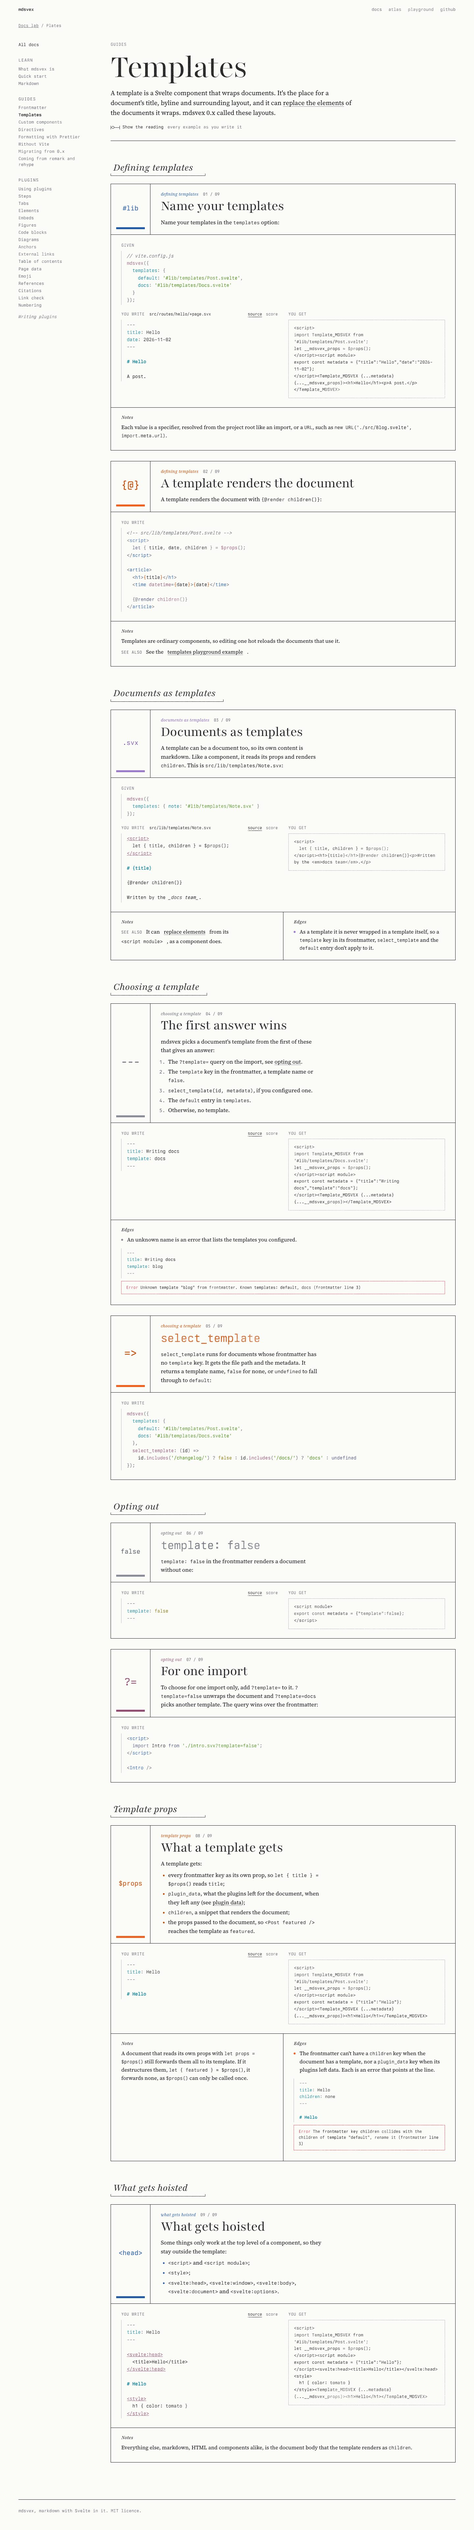
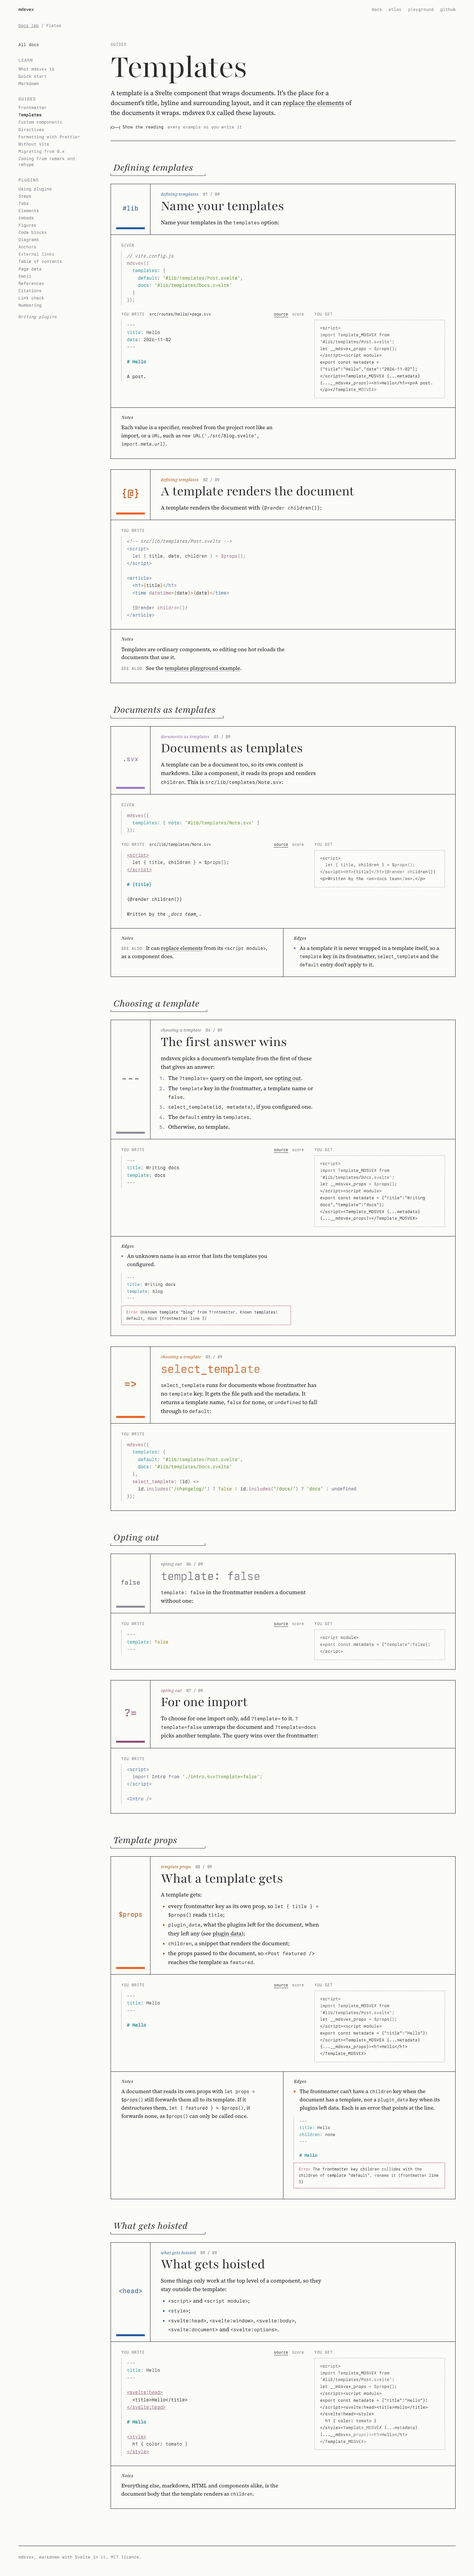
run docs lab plates full width

diff --git a/packages/site/src/lib/docs-lab/Shell.svelte b/packages/site/src/lib/docs-lab/Shell.svelte
@@ -15,10 +15,16 @@
 		nav?: 'side' | 'top';
 		/** which direction this is, said over the page */
 		direction: string;
+		/**
+		 * run the page's right edge out to the page's gutter on a screen wider
+		 * than the frame's measure, so its plates keep growing; the nav stays
+		 * where the frame puts it, under the site's own
+		 */
+		bleed?: boolean;
 		children: Snippet;
 	}
 
-	let { current, nav = 'side', direction, children }: Props = $props();
+	let { current, nav = 'side', direction, bleed = false, children }: Props = $props();
 
 	const here = $derived(
 		sections.flatMap((s) => s.groups.flatMap((g) => g.pages.map((p) => ({ ...p, section_title: s.title })))).find((p) => p.href === current),
@@ -41,7 +47,7 @@
 
 <p class="lab riso"><a href="/docs-lab">Docs lab</a> <span aria-hidden="true">/</span> {direction}</p>
 
-<div class="docs" class:with-side={nav === 'side'} class:with-top={nav === 'top'}>
+<div class="docs" class:with-side={nav === 'side'} class:with-top={nav === 'top'} class:bleed>
 	{#if nav === 'side'}
 		<nav class="side riso" aria-label="Docs">
 			<a class="index" href="/docs">All docs</a>
@@ -87,6 +93,13 @@
 
 	.docs.with-side {
 		grid-template-columns: var(--column) minmax(0, 1fr);
+	}
+
+	/* main is the frame's measure, centred; a percentage margin is of main's
+	   width, so this is how far main's right edge sits in from the page's
+	   gutter, nothing below the measure */
+	.docs.bleed {
+		margin-right: min(0px, calc(50% - 50vw + var(--gutter)));
 	}
 
 	nav {

diff --git a/packages/site/src/lib/docs-lab/plates/Plates.svelte b/packages/site/src/lib/docs-lab/plates/Plates.svelte
@@ -27,7 +27,7 @@
 	<title>{page.title} · plates · docs lab</title>
 </svelte:head>
 
-<Shell current={page.href} direction="Plates">
+<Shell current={page.href} direction="Plates" bleed>
 	<header class="page-head">
 		<p class="kicker riso">{page.kicker}</p>
 		<h1 class="rag">{page.title}</h1>
@@ -58,7 +58,7 @@
 				<div class="added">
 					{#each s.added as a (a.id)}
 						<div class="add" id={a.id} style:--own-line="var(--line-{a.tone})" style:--own-name="var(--name-{a.tone})">
-							<span class="add-mark" aria-hidden="true">{a.mark}</span>
+							<span class="add-mark" class:long={a.mark.length > 3} aria-hidden="true">{a.mark}</span>
 							<span class="add-write">{@html a.write}</span>
 							<span class="add-get">{@html a.get}</span>
 						</div>
@@ -171,7 +171,7 @@
 
 	.contrasts {
 		display: grid;
-		grid-template-columns: repeat(auto-fill, minmax(min(100%, 24rem), 1fr));
+		grid-template-columns: repeat(auto-fill, minmax(min(100%, 30rem), 1fr));
 		gap: 1rem;
 		margin-bottom: 1.5rem;
 	}
@@ -206,6 +206,10 @@
 		padding-bottom: 0.4rem;
 		justify-self: start;
 		white-space: nowrap;
+	}
+
+	.add-mark.long {
+		font-size: 0.875rem;
 	}
 
 	.add-write {

diff --git a/packages/site/src/lib/docs-lab/plates/Plate.svelte b/packages/site/src/lib/docs-lab/plates/Plate.svelte
@@ -211,6 +211,15 @@
 		border-bottom: 0;
 	}
 
+	/* the plate runs the page's width; the room goes to what you write, where a
+	   score wraps by systems, and what you get keeps the rest */
+	@container (min-width: 50rem) {
+		.figure :global(.pair.side) {
+			grid-template-columns: minmax(0, 1.4fr) minmax(0, 1fr);
+			column-gap: clamp(2rem, 3cqi, 3.5rem);
+		}
+	}
+
 	.label {
 		margin: 0 0 0.5rem;
 		font: 400 0.75rem / 1.4 var(--face-mono);
@@ -254,6 +263,11 @@
 		font-size: 1rem;
 	}
 
+	/* the notes are prose, at a reading measure however wide the plate */
+	.notes section > * {
+		max-width: 62ch;
+	}
+
 	h4 {
 		margin: 0 0 0.5rem;
 		font: italic 400 1rem / 1.2 var(--face-display);
@@ -279,15 +293,10 @@
 		font-style: italic;
 	}
 
-	.see {
-		display: flex;
-		flex-wrap: wrap;
-		gap: 0.25rem 0.75rem;
-		align-items: baseline;
-	}
-
+	/* a sentence, so it flows as one: the label set before it like a kicker */
 	.see .label {
-		margin: 0;
+		display: inline;
+		margin: 0 0.5rem 0 0;
 	}
 
 	.error-pair {

diff --git a/design/docs/LAB.md b/design/docs/LAB.md
@@ -54,6 +54,13 @@ Lessons. Each concept with an example is a numbered lesson: the brief on the lef
 - the Workbook's bench as the plate's pair, since embeds waking on touch is already decided (docs plan decision 7), with no nudges and no lessons;
 - the Margins treatment for Internals' explanation pages, which are arguments rather than concepts and would be hurt by being cut into sheets.
 
+**Decided 2026-11-09: Plates, full width.** pngwn picked Plates with one change, now in the lab:
+- A plate takes the whole content area, from the nav's edge to the page's right gutter. Past the frame's 92rem measure it keeps growing, while the nav stays under the site's own (`Shell`'s `bleed`).
+- Inside a plate, the title, the lede and the notes keep a reading measure, and the extra width goes to the pair: "you write", where a score wraps, takes 1.4 parts to "you get"'s 1.
+- Prose between plates stays in the 46rem column, so the page alternates between a narrow text column and wide plates.
+- At 1440 the plate already reached the gutter (1048px beside the nav), so what changes there is the split inside it. At 1920 the plate grows from 1184px to 1352px.
+- Screenshots: `plates-*-{1440,1920,375}-light.jpg`.
+
 ## What it takes to apply Plates to all 42 pages
 
 1. **Code, once.** Move the lab's pieces into `lib/docs`:
